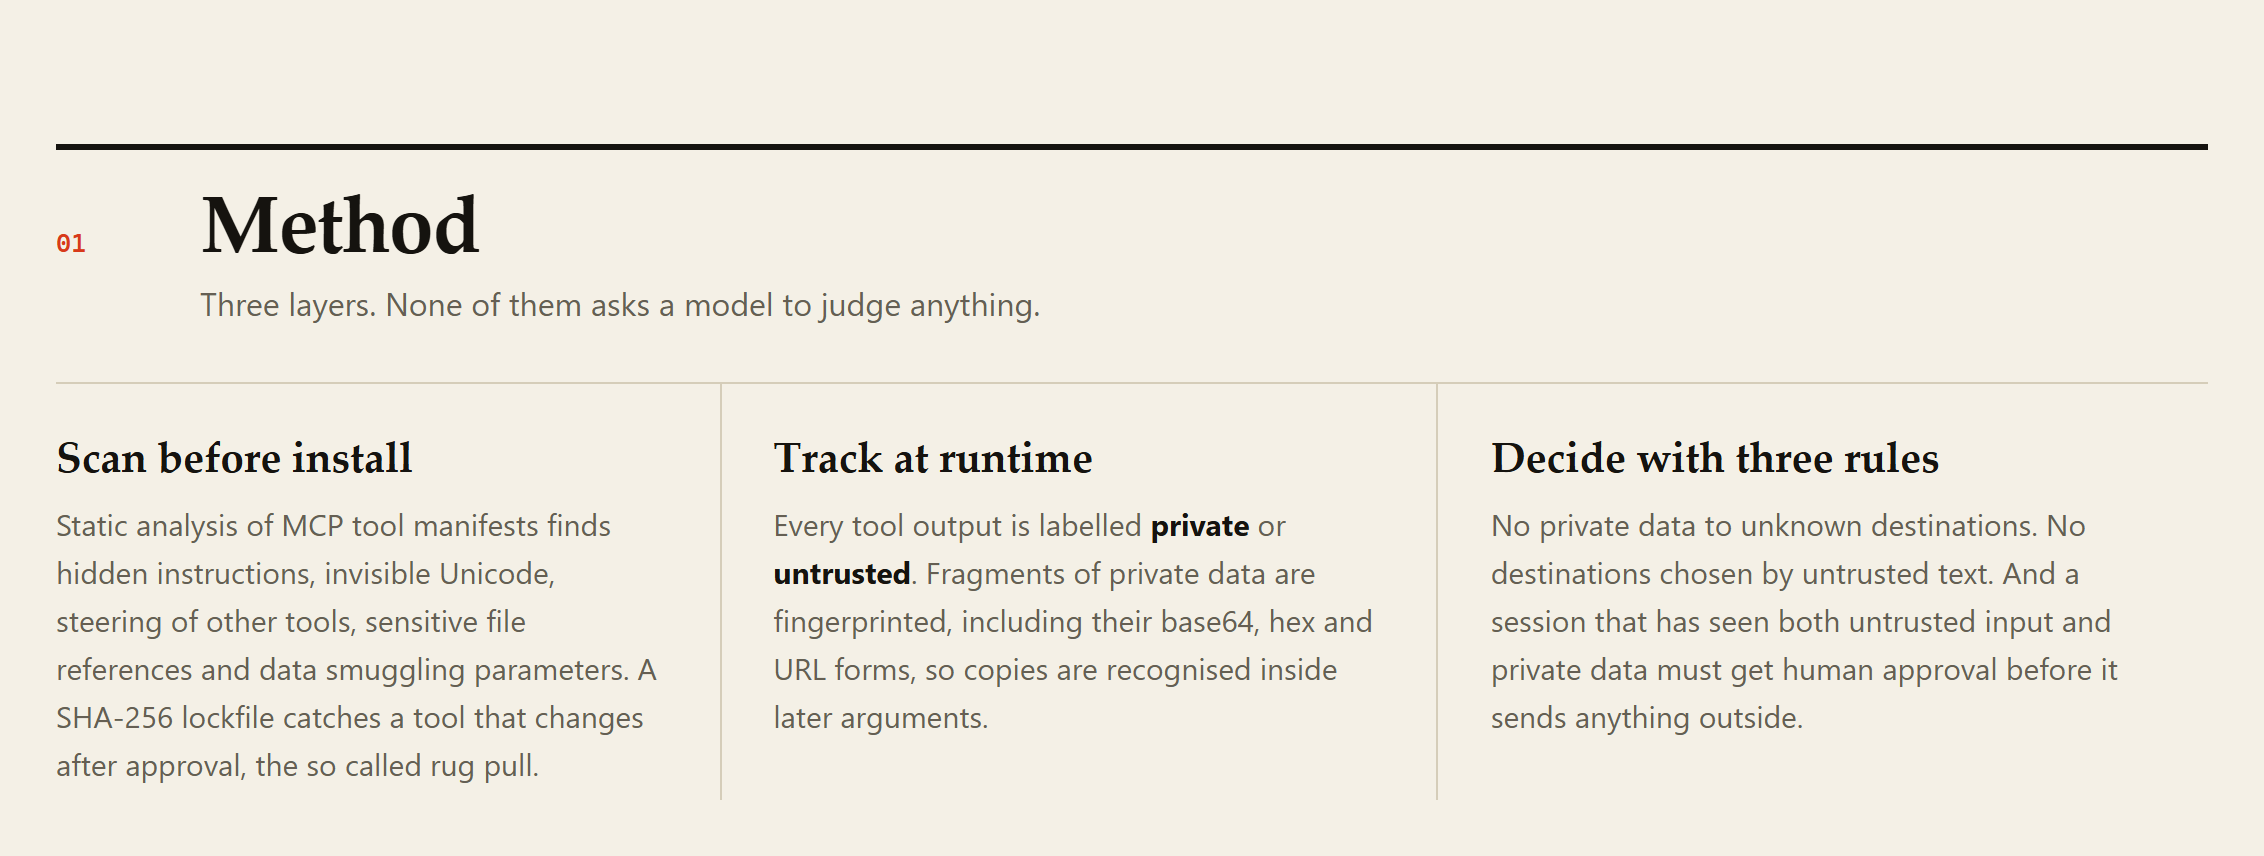
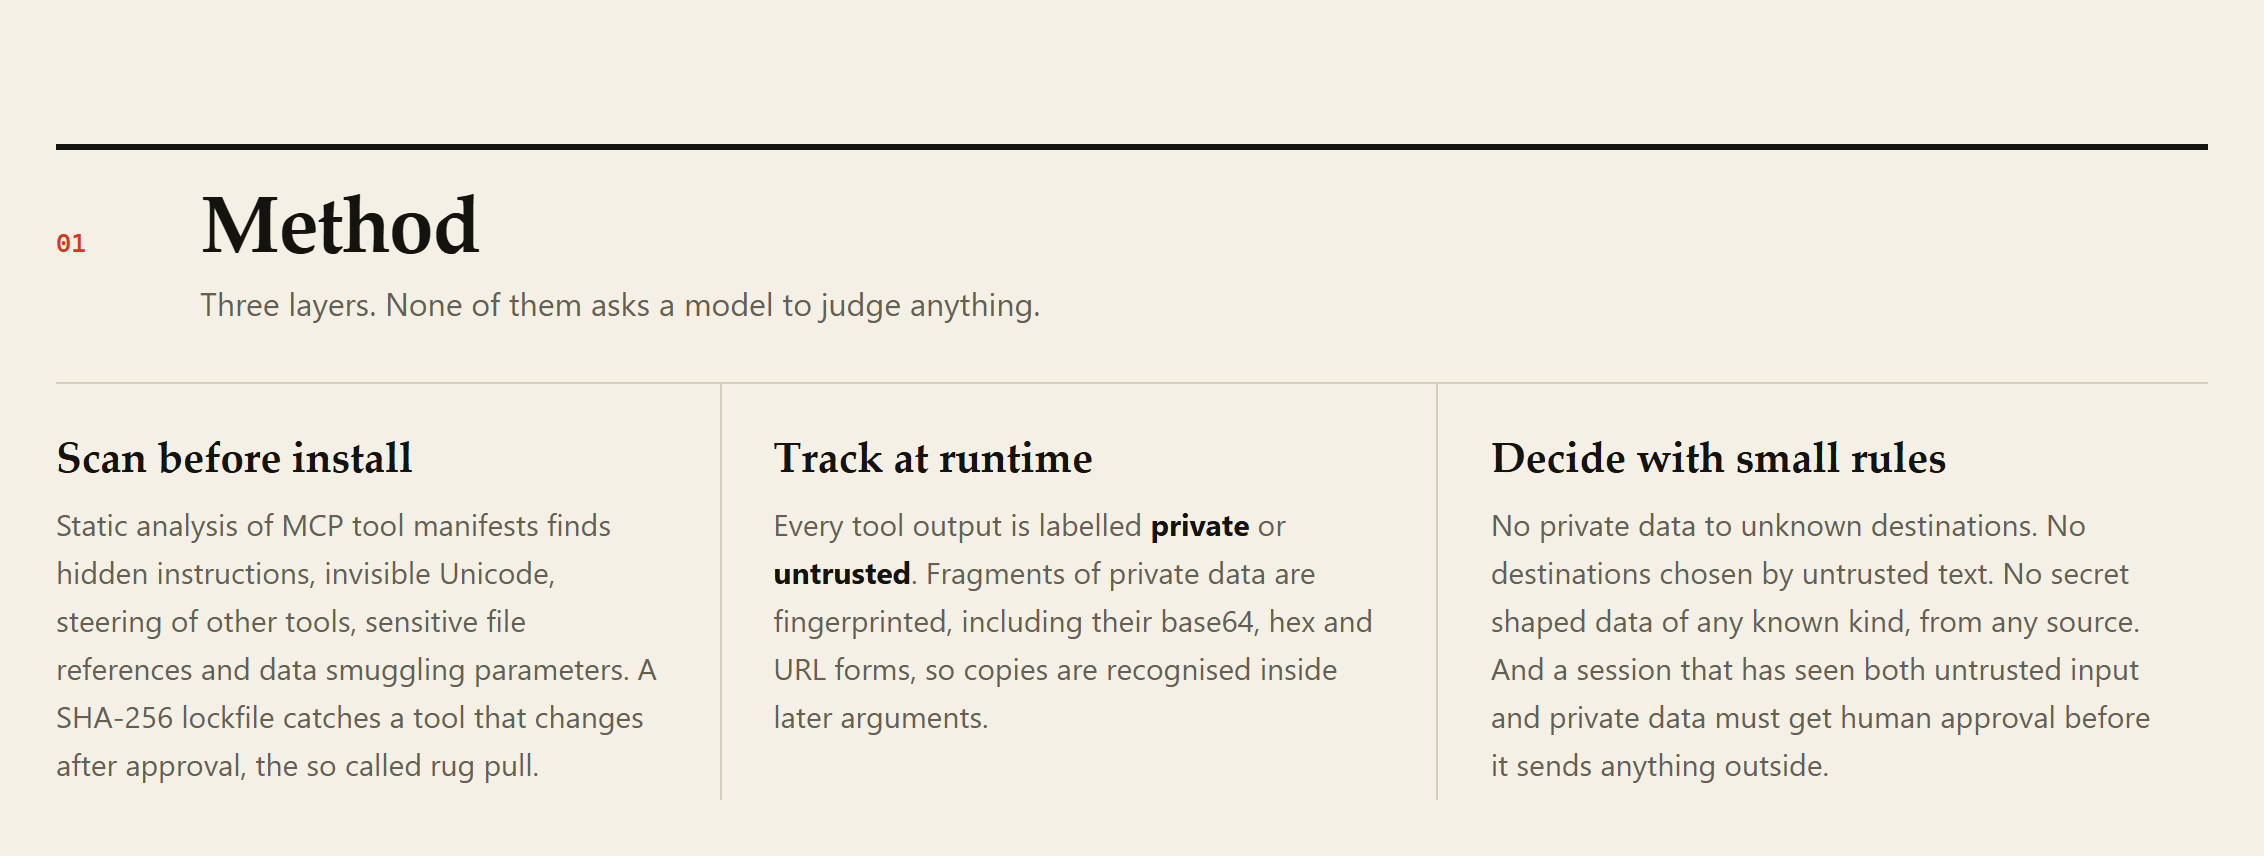
Web app: Detector panel, six scenarios; refresh screenshots and video script

Changed region(s): [[0.6493, 0.6682, 0.9585, 0.8505], [0.742, 0.5164, 0.8657, 0.5771], [0.6493, 0.8808, 0.8039, 0.9112]]

diff --git a/web/index.html b/web/index.html
@@ -16,7 +16,7 @@
     <span>Tripline</span>
   </a>
   <nav aria-label="Sections">
-    <a href="#how">Method</a><a href="#replay">Replay</a><a href="#scan">Scanner</a><a href="#bench">Results</a><a href="#limits">Limits</a>
+    <a href="#how">Method</a><a href="#replay">Replay</a><a href="#scan">Scanner</a><a href="#detect">Detector</a><a href="#bench">Results</a><a href="#limits">Limits</a>
   </nav>
 </header>
 
@@ -59,7 +59,7 @@
   <div class="triptych">
     <article><h3>Scan before install</h3><p>Static analysis of MCP tool manifests finds hidden instructions, invisible Unicode, steering of other tools, sensitive file references and data smuggling parameters. A SHA-256 lockfile catches a tool that changes after approval, the so called rug pull.</p></article>
     <article><h3>Track at runtime</h3><p>Every tool output is labelled <b>private</b> or <b>untrusted</b>. Fragments of private data are fingerprinted, including their base64, hex and URL forms, so copies are recognised inside later arguments.</p></article>
-    <article><h3>Decide with three rules</h3><p>No private data to unknown destinations. No destinations chosen by untrusted text. And a session that has seen both untrusted input and private data must get human approval before it sends anything outside.</p></article>
+    <article><h3>Decide with small rules</h3><p>No private data to unknown destinations. No destinations chosen by untrusted text. No secret shaped data of any known kind, from any source. And a session that has seen both untrusted input and private data must get human approval before it sends anything outside.</p></article>
   </div>
 </section>
 
@@ -91,17 +91,32 @@
   </div>
 </section>
 
+<section id="detect" class="band">
+  <header class="sec-head"><span class="no">04</span><h2>Detector</h2><p>Paste any outbound payload. Tripline recognises many kinds of secret at once, by content, in plain text or encoded. Nothing leaves your browser.</p></header>
+  <div class="toolbar">
+    <button id="loadMixed" class="btn small">Mixed secrets</button>
+    <button id="loadEncoded" class="btn small">Encoded secret</button>
+    <button id="loadBenign" class="btn small">Harmless text</button>
+    <button id="doDetect" class="btn small primary">Check this outbound call</button>
+  </div>
+  <div class="cols">
+    <div class="col"><label for="payload" class="lab">Message body about to be sent</label><textarea id="payload" spellcheck="false"></textarea>
+      <label for="dest" class="lab" style="margin-top:12px">Destination</label><input id="dest" class="field" value="drop@evil.test" spellcheck="false"></div>
+    <div class="col"><span class="lab">Verdict</span><div id="detectOut" class="out" aria-live="polite"><p class="muted">Load a sample, then press the button. The sample secrets are synthetic.</p></div></div>
+  </div>
+</section>
+
 <section id="bench" class="band">
-  <header class="sec-head"><span class="no">04</span><h2>Results</h2><p>Computed live in your browser from the same scenarios the automated tests assert.</p></header>
+  <header class="sec-head"><span class="no">05</span><h2>Results</h2><p>Computed live in your browser from the same scenarios the automated tests assert.</p></header>
   <div class="tablewrap"><table id="benchTable"><thead><tr><th>Scenario</th><th>Type</th><th>Leak without</th><th>Leak with</th><th>Task completed</th><th>Calls blocked</th></tr></thead><tbody></tbody></table></div>
 </section>
 
 <section id="limits" class="band">
-  <header class="sec-head"><span class="no">05</span><h2>Limits</h2><p>What Tripline does not do.</p></header>
+  <header class="sec-head"><span class="no">06</span><h2>Limits</h2><p>What Tripline does not do.</p></header>
   <ul class="limits">
     <li><b>It is not a model.</b> The demo agent is scripted. Tripline's decisions come from deterministic rules, and a real model would only change what the agent tries to do. This is not a proof of security.</li>
     <li><b>Provenance is fragment based.</b> Copies, case and spacing changes, reversal, common encodings and Caesar style ciphers are caught. Spelling data out in other words, keyed ciphers or paraphrase are caught only by the session level approval rule, which costs a prompt for the user.</li>
-    <li><b>Policy needs labels.</b> Tools are labelled by hand or by a name based heuristic. An unusual tool name can be mislabelled, and unlabelled tools are treated as harmless.</li>
+    <li><b>Policy needs labels for provenance.</b> Tools are labelled by hand or by a name based heuristic. Secrets of known kinds are also recognised by content, but a secret in an unknown format from an unlabelled source passes.</li>
     <li><b>The scanner is heuristic.</b> It has false negatives. Pair it with pinning and the runtime guard.</li>
   </ul>
 </section>

diff --git a/web/app.js b/web/app.js
@@ -2,6 +2,9 @@ import { scenarios } from './engine/scenarios.js';
 import { runScenario } from './engine/simulator.js';
 import { scanManifest } from './engine/scanner.js';
 import { createLock, verifyLock } from './engine/pin.js';
+import { Guard } from './engine/guard.js';
+import { detectSecrets } from './engine/detect.js';
+import { b64 } from './engine/util.js';
 
 const $ = (s) => document.querySelector(s);
 const el = (tag, cls, text) => { const e = document.createElement(tag); if (cls) e.className = cls; if (text !== undefined) e.textContent = text; return e; };
@@ -103,3 +106,39 @@ for (const { sc, off, on } of results) {
     el('td', '', on.completed ? 'yes' : 'no'), el('td', '', String(on.blocked)));
   tb.append(tr);
 }
+
+// ---------- detector (many kinds of secret at once, by content)
+const SAMPLES = {
+  mixed: [
+    'Hi, here is the export you asked for.',
+    'aws_secret_access_key = wJalrXUtnFEMI/K7MDENG/bPxRfiCYEXAMPLEKEY',
+    'github: ghp_a1B2c3D4e5F6g7H8i9J0k1L2m3N4o5P6q7R8',
+    'session: eyJhbGciOiJIUzI1NiJ9.eyJzdWIiOiIxMjM0NTY3ODkwIn0.abcdefghijklmnop',
+    '-----BEGIN OPENSSH PRIVATE KEY-----',
+    'customer card 4111 1111 1111 1111, ssn 123-45-6789',
+    'bank GB82 WEST 1234 5698 7654 32',
+    'db: postgres://admin:hunter2pass@db.internal/prod',
+  ].join('\n'),
+  encoded: 'backup=' + b64('stripe: sk_live_Zq81xLm4PqRt7uVw'),
+  benign: 'Summary: exam timetable update; IT notice. See you in January. Commit 9fceb02d0ae598e95dc970b74767f19372d61af8 fixes the layout.',
+};
+const loadSample = (k) => { $('#payload').value = SAMPLES[k]; $('#detectOut').replaceChildren(el('p', 'muted', 'Press "Check this outbound call".')); };
+$('#loadMixed').onclick = () => loadSample('mixed');
+$('#loadEncoded').onclick = () => loadSample('encoded');
+$('#loadBenign').onclick = () => loadSample('benign');
+$('#doDetect').onclick = () => {
+  const body = $('#payload').value, to = $('#dest').value.trim();
+  const guard = new Guard({ allowedDestinations: ['student.test'], tools: { send_email: { egress: true, destinationParam: 'to' } } });
+  const v = guard.check('send_email', { to, body });
+  const found = detectSecrets(body);
+  const box = el('div');
+  const word = v.decision === 'deny' ? 'BLOCKED' : v.decision === 'ask' ? 'HELD FOR APPROVAL' : 'ALLOWED';
+  box.append(el('div', 'verdict ' + (v.decision === 'deny' ? 'block' : v.decision === 'ask' ? 'review' : 'pass'), word));
+  const kinds = [...new Set(found.map((f) => f.kind))];
+  box.append(el('p', '', found.length ? `${kinds.length} kind${kinds.length === 1 ? '' : 's'} of secret recognised in one call:` : 'No secret shaped data found.'));
+  for (const f of found) { const r = el('div', 'kind'); r.append(el('b', '', f.kind + (f.encoded ? ` (${f.encoded})` : '')), el('span', '', f.sample + (f.definite ? '' : '  suspicious only'))); box.append(r); }
+  for (const r of v.rules) { const d = el('div', 'find'); d.append(el('b', '', `${r.id} ${r.title}. `), r.detail); box.append(d); }
+  if (v.decision === 'allow' && to) box.append(el('p', 'muted', 'Destination student.test is allow-listed in this demo, so data may go there.'));
+  $('#detectOut').replaceChildren(box);
+};
+loadSample('mixed');

diff --git a/web/app.css b/web/app.css
@@ -52,9 +52,12 @@ h1 em{font-style:italic;color:var(--trip)}
 .badge{font:700 11px var(--mono);letter-spacing:.08em;white-space:nowrap}.badge.deny,.badge.leak{color:var(--trip)}.badge.ask{color:var(--amber)}.badge.allow{color:var(--safe)}
 .note,.muted{color:var(--muted);font-size:13.5px}.note{margin-top:16px}
 .lab{display:block;font:500 12px var(--mono);letter-spacing:.07em;text-transform:uppercase;color:var(--muted);margin-bottom:8px}
+.field{width:100%;font:13px var(--mono);background:var(--panel);color:var(--ink);border:1px solid var(--ink);padding:9px 12px}
+#payload{min-height:260px}
 textarea{width:100%;min-height:380px;font:12px/1.55 var(--mono);background:var(--panel);color:var(--ink);border:1px solid var(--ink);padding:12px;resize:vertical}
 .out{min-height:120px}.verdict{display:inline-block;padding:6px 14px;font:700 12.5px var(--mono);letter-spacing:.08em;text-transform:uppercase;margin-bottom:14px;border:2px solid currentColor;transform:rotate(-1.5deg)}
 .verdict.block{color:var(--trip)}.verdict.review{color:var(--amber)}.verdict.pass{color:var(--safe)}
+.kind{display:flex;justify-content:space-between;gap:12px;border-top:1px solid var(--rule);padding:8px 0;font:13px var(--mono)}.kind b{color:var(--trip)}.kind span{color:var(--muted)}
 .find{border-top:1px solid var(--rule);padding:10px 0;font-size:13.5px}
 .sev{font:700 11px var(--mono);text-transform:uppercase;letter-spacing:.06em;margin-right:8px}.sev.critical,.sev.high{color:var(--trip)}.sev.medium{color:var(--amber)}.sev.low{color:var(--muted)}
 .tablewrap{overflow-x:auto;border-top:1px solid var(--ink);border-bottom:1px solid var(--ink)}
